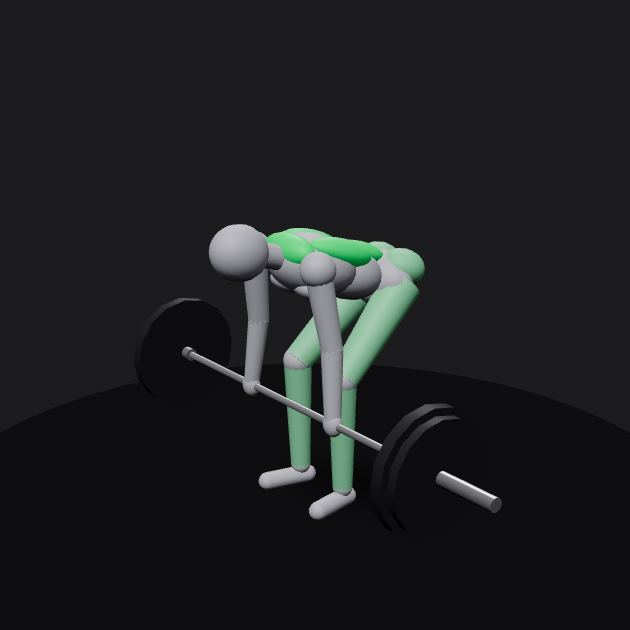
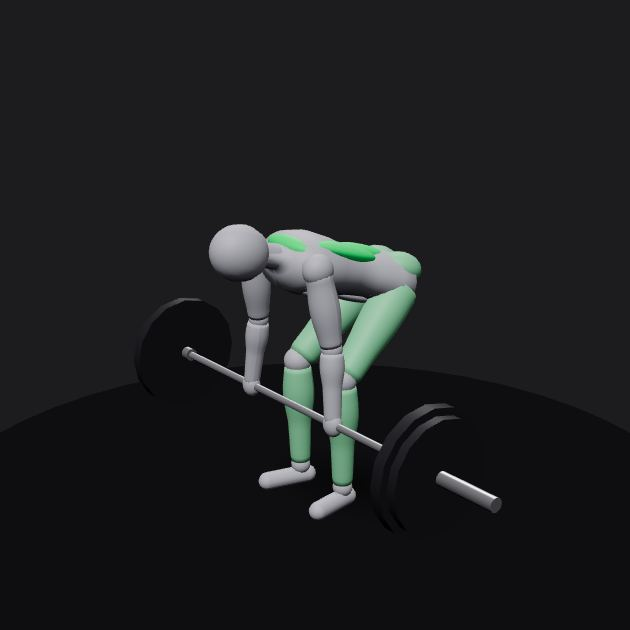
Better 3D mannequin: limbs with muscle profiles (lathe), one smooth torso, flatter muscle overlays; tests use the same limb shape; new stills
Claude-Session: https://claude.ai/code/session_012kczc3KZQR6xpQ2zs53NkB

diff --git a/gym-logger/src/features/exercise/demo3d/scene.ts b/gym-logger/src/features/exercise/demo3d/scene.ts
@@ -3,7 +3,7 @@
 import * as THREE from 'three';
 import { OrbitControls } from 'three/examples/jsm/controls/OrbitControls.js';
 import type { MuscleGroup } from '../../../db/types';
-import { BODY, FOOT_R, RADII, trunkPoint, type Joints, type V3 } from './rig';
+import { BODY, FOOT_R, RADII, limbRadius, trunkPoint, type Joints, type LimbName, type V3 } from './rig';
 import { sample, type Move } from './moves';
 
 const FRAME_MS = 1000 / 30;
@@ -24,11 +24,21 @@ export interface SceneOptions {
 const Y = new THREE.Vector3(0, 1, 0);
 const v = (p: V3) => new THREE.Vector3(p[0], p[1], p[2]);
 
-/** Avsmalnende lem fra roten til enden. Geometrien lages med riktig lengde, så den bare flyttes og roteres. */
+/**
+ * Lem med muskelform (LatheGeometry etter limbRadius i rig.ts) fra roten til enden. Geometrien lages
+ * med riktig lengde, så den bare flyttes og roteres.
+ */
 class Limb {
   mesh: THREE.Mesh;
-  constructor(length: number, r: readonly [number, number], mat: THREE.Material, parent: THREE.Object3D) {
-    const geo = new THREE.CylinderGeometry(r[1], r[0], length, 12, 1);
+  constructor(length: number, limb: LimbName, mat: THREE.Material, parent: THREE.Object3D) {
+    const pts: THREE.Vector2[] = [];
+    const N = 22;
+    for (let i = 0; i <= N; i++) {
+      const t = i / N;
+      pts.push(new THREE.Vector2(Math.max(0.0005, limbRadius(limb, t)), -length / 2 + t * length));
+    }
+    const geo = new THREE.LatheGeometry(pts, 20);
+    geo.computeVertexNormals();
     this.mesh = new THREE.Mesh(geo, mat);
     parent.add(this.mesh);
   }
@@ -39,6 +49,32 @@ class Limb {
     this.mesh.position.copy(va.addScaledVector(dir, 0.5));
     if (l > 1e-6) this.mesh.quaternion.setFromUnitVectors(Y, dir.normalize());
   }
+}
+
+/** Overkroppen som én glatt form: bekken, midje, brystkasse, skuldre og nakke (flatere forfra-bakfra). */
+function torsoShape(mat: THREE.Material, parent: THREE.Object3D) {
+  // [høyde langs ryggen, bredde (radius)]
+  const profile: [number, number][] = [
+    [-0.075, 0.0],
+    [-0.06, 0.1],
+    [-0.02, 0.15],
+    [0.05, 0.155],
+    [0.15, 0.13],
+    [0.24, 0.135],
+    [0.34, 0.16],
+    [0.43, 0.17],
+    [0.5, 0.15],
+    [0.53, 0.09],
+    [0.55, 0.05],
+    [0.62, 0.045],
+  ];
+  const pts = profile.map(([y, r]) => new THREE.Vector2(r, y));
+  const geo = new THREE.LatheGeometry(pts, 28);
+  geo.computeVertexNormals();
+  const m = new THREE.Mesh(geo, mat);
+  m.scale.set(1, 1, 0.68);
+  parent.add(m);
+  return m;
 }
 
 function blob(mat: THREE.Material, parent: THREE.Object3D, r: number, s: V3 = [1, 1, 1], at: V3 = [0, 0, 0]) {
@@ -176,15 +212,15 @@ export class DemoScene {
     const s = this.scene;
     const legs = m.muscle('Bein');
     const arms = m.muscle('Biceps', 'Triceps');
-    this.limbs.thigh = [0, 1].map(() => new Limb(BODY.thigh, RADII.thigh, legs, s));
-    this.limbs.shin = [0, 1].map(() => new Limb(BODY.shin, RADII.shin, legs, s));
-    this.limbs.upperArm = [0, 1].map(() => new Limb(BODY.upperArm, RADII.upperArm, arms, s));
-    this.limbs.forearm = [0, 1].map(() => new Limb(BODY.forearm, RADII.forearm, m.muscle('Underarmer'), s));
-    this.joints.knee = [0, 1].map(() => blob(m.skin, s, RADII.thigh[1]));
+    this.limbs.thigh = [0, 1].map(() => new Limb(BODY.thigh, 'thigh', legs, s));
+    this.limbs.shin = [0, 1].map(() => new Limb(BODY.shin, 'shin', legs, s));
+    this.limbs.upperArm = [0, 1].map(() => new Limb(BODY.upperArm, 'upperArm', arms, s));
+    this.limbs.forearm = [0, 1].map(() => new Limb(BODY.forearm, 'forearm', m.muscle('Underarmer'), s));
+    this.joints.knee = [0, 1].map(() => blob(m.skin, s, RADII.thigh[1] * 0.95));
     this.joints.ankle = [0, 1].map(() => blob(m.skin, s, RADII.shin[1]));
-    this.joints.elbow = [0, 1].map(() => blob(m.skin, s, RADII.upperArm[1]));
+    this.joints.elbow = [0, 1].map(() => blob(m.skin, s, RADII.upperArm[1] * 0.95));
     this.joints.hand = [0, 1].map(() => blob(m.skin, s, 0.04, [1, 1.15, 0.8]));
-    this.joints.delt = [0, 1].map(() => blob(m.muscle('Skuldre'), s, 0.064));
+    this.joints.delt = [0, 1].map(() => blob(m.muscle('Skuldre'), s, 0.052, [1, 1.1, 1.1]));
     this.feet = [0, 1].map(() => {
       const f = new THREE.Mesh(new THREE.CapsuleGeometry(FOOT_R, 0.17, 4, 10), m.skin);
       s.add(f);
@@ -194,17 +230,16 @@ export class DemoScene {
     // Overkroppen: barnas koordinater er (sidelengs, langs ryggen, fram).
     const t = this.torso;
     s.add(t);
-    blob(m.skin, t, 1, [0.155, 0.1, 0.11], [0, 0.03, 0]);
-    blob(m.muscle('Rumpe'), t, 0.085, [1, 1.05, 0.85], [-0.065, -0.005, -0.06]);
-    blob(m.muscle('Rumpe'), t, 0.085, [1, 1.05, 0.85], [0.065, -0.005, -0.06]);
-    blob(m.muscle('Mage'), t, 1, [0.125, 0.14, 0.1], [0, 0.2, 0.005]);
-    blob(m.skin, t, 1, [0.16, 0.17, 0.115], [0, 0.375, 0]);
-    blob(m.muscle('Bryst'), t, 1, [0.08, 0.06, 0.04], [-0.068, 0.405, 0.082]);
-    blob(m.muscle('Bryst'), t, 1, [0.08, 0.06, 0.04], [0.068, 0.405, 0.082]);
-    blob(m.muscle('Rygg'), t, 1, [0.07, 0.14, 0.05], [-0.085, 0.33, -0.07]);
-    blob(m.muscle('Rygg'), t, 1, [0.07, 0.14, 0.05], [0.085, 0.33, -0.07]);
-    blob(m.muscle('Rygg'), t, 1, [0.13, 0.06, 0.06], [0, 0.49, -0.035]);
-    blob(m.muscle('Rygg'), t, 1, [0.06, 0.12, 0.04], [0, 0.17, -0.08]);
+    torsoShape(m.skin, t);
+    // Musklene ligger som tynne, flate former nedsenket i overkroppen, så de ser ut som muskler og ikke klosser.
+    for (const x of [-1, 1]) {
+      blob(m.muscle('Rumpe'), t, 1, [0.075, 0.085, 0.06], [x * 0.062, 0.0, -0.058]);
+      blob(m.muscle('Bryst'), t, 1, [0.078, 0.055, 0.03], [x * 0.064, 0.4, 0.084]);
+      blob(m.muscle('Rygg'), t, 1, [0.06, 0.15, 0.03], [x * 0.09, 0.32, -0.075]);
+      blob(m.muscle('Mage'), t, 1, [0.035, 0.12, 0.022], [x * 0.032, 0.18, 0.083]);
+    }
+    blob(m.muscle('Rygg'), t, 1, [0.12, 0.05, 0.04], [0, 0.49, -0.05]);
+    blob(m.muscle('Rygg'), t, 1, [0.05, 0.12, 0.025], [0, 0.16, -0.085]);
     cyl(m.skin, t, 0.045, 0.12, 'y', [0, 0.56, 0]);
     blob(m.skin, t, 1, [0.09, 0.11, 0.1], [0, BODY.head, 0.01]);
   }

diff --git a/gym-logger/src/features/exercise/demo3d/moves.test.ts b/gym-logger/src/features/exercise/demo3d/moves.test.ts
@@ -1,19 +1,19 @@
 import { describe, expect, it } from 'vitest';
 import { MOVES, moveFor, sample } from './moves';
-import { RADII, jointAngle, len, sub, type V3 } from './rig';
+import { RADII, jointAngle, len, limbRadius, sub, type LimbName, type V3 } from './rig';
 import { NB_NAMED } from '../../../db/library';
 
 const PHASES = Array.from({ length: 101 }, (_, i) => i / 100);
 
 /** Avstand fra punktet `p` til en stang langs x-aksen gjennom `bar` (sett fra siden). */
 const barDist = (p: V3, bar: V3) => Math.hypot(p[1] - bar[1], p[2] - bar[2]);
-/** Klaring (sett fra siden) mellom stanga og overflaten på et avsmalnende lem fra `a` (radius r[0]) til `b` (r[1]). */
-function clearance(a: V3, b: V3, r: readonly [number, number], bar: V3) {
+/** Klaring (sett fra siden) mellom stanga og overflaten på et lem fra `a` til `b`, med samme muskelform som tegningen. */
+function clearance(a: V3, b: V3, limb: LimbName, bar: V3) {
   let best = Infinity;
   for (let i = 0; i <= 40; i++) {
     const t = i / 40;
     const p: V3 = [a[0] + (b[0] - a[0]) * t, a[1] + (b[1] - a[1]) * t, a[2] + (b[2] - a[2]) * t];
-    best = Math.min(best, barDist(p, bar) - (r[0] + (r[1] - r[0]) * t) - RADII.bar);
+    best = Math.min(best, barDist(p, bar) - limbRadius(limb, t, false) - RADII.bar);
   }
   return best;
 }
@@ -62,8 +62,8 @@ describe('3D-demoer', () => {
             expect(len(sub(bar, j.head)), `hode ved ${p}`).toBeGreaterThanOrEqual(0.12);
             for (const s of [0, 1]) {
               // Stanga kan streife beina (inntil 5 mm), men ikke gå gjennom dem.
-              expect(clearance(j.knees[s], j.ankles[s], RADII.shin, bar), `legg ${s} ved ${p}`).toBeGreaterThanOrEqual(-0.005);
-              expect(clearance(j.hips[s], j.knees[s], RADII.thigh, bar), `lår ${s} ved ${p}`).toBeGreaterThanOrEqual(-0.005);
+              expect(clearance(j.knees[s], j.ankles[s], 'shin', bar), `legg ${s} ved ${p}`).toBeGreaterThanOrEqual(-0.005);
+              expect(clearance(j.hips[s], j.knees[s], 'thigh', bar), `lår ${s} ved ${p}`).toBeGreaterThanOrEqual(-0.005);
             }
           }
         });

diff --git a/gym-logger/src/features/exercise/demo3d/rig.ts b/gym-logger/src/features/exercise/demo3d/rig.ts
@@ -41,6 +41,32 @@ export const RADII = {
   bar: 0.014,
 } as const;
 
+export type LimbName = 'thigh' | 'shin' | 'upperArm' | 'forearm';
+
+/** Muskelbuen på hvert lem: hvor mye tykkere (andel) og hvor langs lemmet (0 = rot, 1 = ende). */
+const BULGE: Record<LimbName, { amount: number; from: number; to: number }> = {
+  thigh: { amount: 0.12, from: 0.0, to: 0.75 }, // forside lår
+  shin: { amount: 0.24, from: 0.05, to: 0.6 }, // legg
+  upperArm: { amount: 0.2, from: 0.15, to: 0.9 }, // biceps/triceps
+  forearm: { amount: 0.18, from: 0.0, to: 0.5 }, // underarm ved albuen
+};
+
+/**
+ * Radius på et lem ved t (0 = rot, 1 = ende): avsmalnende med en myk muskelbue, og runde ender.
+ * Brukes av tegningen (LatheGeometry) og av testene, så de sjekker samme form som vises.
+ */
+export function limbRadius(limb: LimbName, t: number, rounded = true): number {
+  const [r0, r1] = RADII[limb];
+  const b = BULGE[limb];
+  const u = (t - b.from) / (b.to - b.from);
+  const bulge = u > 0 && u < 1 ? Math.sin(Math.PI * u) ** 1.5 * b.amount : 0;
+  const base = (r0 + (r1 - r0) * t) * (1 + bulge);
+  if (!rounded) return base;
+  const e = 0.07;
+  const edge = t < e ? t / e : t > 1 - e ? (1 - t) / e : 1;
+  return base * Math.sqrt(Math.max(0, 1 - (1 - edge) ** 2));
+}
+
 /** Overkroppens akser for en helning: `up` langs ryggraden, `fwd` ut av brystet, `right` sidelengs. */
 export function trunkAxes(pitchDeg: number) {
   const p = rad(pitchDeg);
